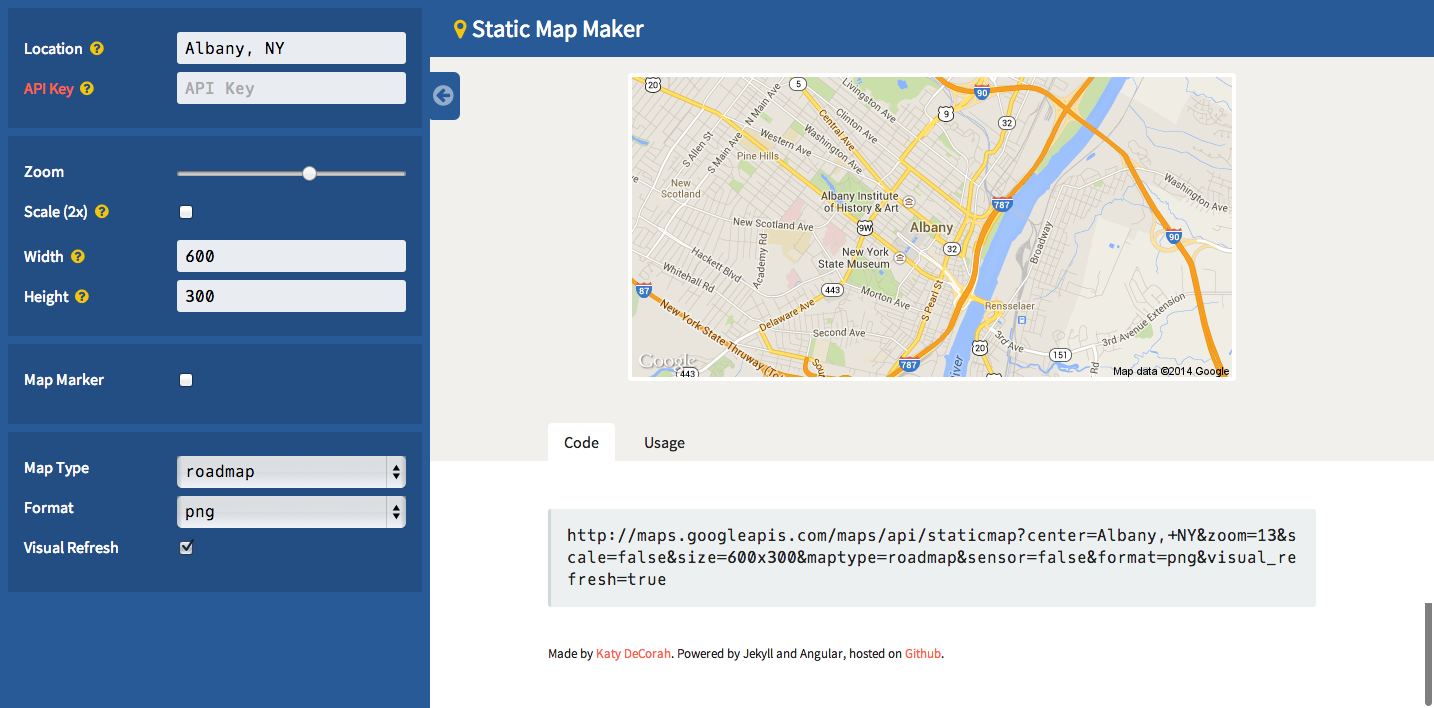
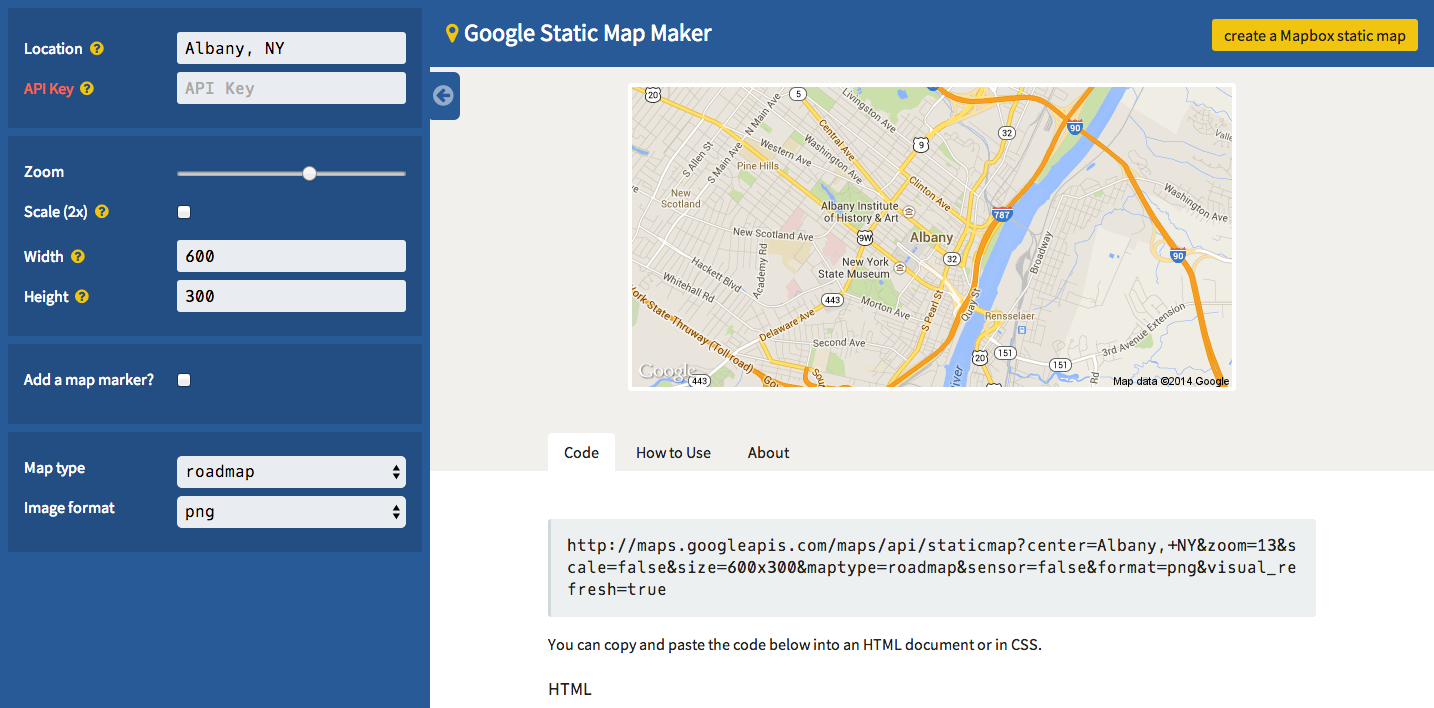
upgrade to mapbox v4

diff --git a/css/main.css b/css/main.css
@@ -1,4 +1,4 @@
-.clearfix,.main,.form-group{zoom:1}.clearfix:before,.main:before,.form-group:before,.clearfix:after,.main:after,.form-group:after{content:"\0020";display:block;height:0;overflow:hidden}.clearfix:after,.main:after,.form-group:after{clear:both}html,body,div,span,applet,object,iframe,h1,h2,h3,h4,h5,h6,p,blockquote,pre,a,abbr,acronym,address,big,cite,code,del,dfn,em,img,ins,kbd,q,s,samp,small,.colophon,strike,strong,sub,sup,tt,var,b,u,i,center,dl,dt,dd,ol,ul,li,fieldset,form,label,legend,table,caption,tbody,tfoot,thead,tr,th,td,article,aside,canvas,details,embed,figure,figcaption,footer,header,hgroup,menu,nav,output,ruby,section,summary,time,mark,audio,video{margin:0;padding:0;border:0;font-size:100%;font:inherit;vertical-align:baseline}article,aside,details,figcaption,figure,footer,header,hgroup,menu,nav,section{display:block}body{line-height:1}h1{font-size:1.5em;color:white;font-weight:normal}@media (min-width: 650px){h1{float:left}}h1 .fa-map-marker{color:#f1c40f;font-size:0.9em}h2{font-size:1.1em;font-weight:normal;margin:1em 0}p{margin:0 0 1.3em;max-width:35em}a{text-decoration:none;color:tomato}a:hover{color:#ff8e7a}code,pre{font-family:"Oxygen Mono","Courier New",monospace}pre{margin:1em 0;word-break:break-all;white-space:pre-wrap;padding:1em;background:#ecf0f1;border-left:3px solid #cfd9db;border-radius:0.2em;display:block}pre::-moz-selection{background:#f1c40f}pre::selection{background:#f1c40f}small,.colophon{font-size:0.8em}.colophon{margin-top:3em;margin-bottom:1em}.link{position:absolute;right:1em;top:1em;color:white;z-index:1}ol{margin-left:1.25em}*{-moz-box-sizing:border-box;box-sizing:border-box}@media (min-width: 650px){html,body{height:100%}}
+.clearfix,.main,.form-group{zoom:1}.clearfix:before,.main:before,.form-group:before,.clearfix:after,.main:after,.form-group:after{content:"\0020";display:block;height:0;overflow:hidden}.clearfix:after,.main:after,.form-group:after{clear:both}html,body,div,span,applet,object,iframe,h1,h2,h3,h4,h5,h6,p,blockquote,pre,a,abbr,acronym,address,big,cite,code,del,dfn,em,img,ins,kbd,q,s,samp,small,.colophon,strike,strong,sub,sup,tt,var,b,u,i,center,dl,dt,dd,ol,ul,li,fieldset,form,label,legend,table,caption,tbody,tfoot,thead,tr,th,td,article,aside,canvas,details,embed,figure,figcaption,footer,header,hgroup,menu,nav,output,ruby,section,summary,time,mark,audio,video{margin:0;padding:0;border:0;font-size:100%;font:inherit;vertical-align:baseline}article,aside,details,figcaption,figure,footer,header,hgroup,menu,nav,section{display:block}body{line-height:1}h2,h3,h4{margin:1.414em 0 0.5em;font-weight:inherit;line-height:1.2}h1{font-size:1.5em;color:white;font-weight:normal}@media (min-width: 650px){h1{float:left}}h1 .fa-map-marker{color:#f1c40f;font-size:0.9em}h2{font-size:1.424em}h3{font-size:1.266em}h4{font-size:1.125em}p{margin:0 0 1.3em;max-width:35em}a{text-decoration:none;color:tomato}a:hover{color:#ff8e7a}code,pre{font-family:"Oxygen Mono","Courier New",monospace}pre{margin:1em 0;word-break:break-all;white-space:pre-wrap;padding:1em;background:#ecf0f1;border-left:3px solid #cfd9db;border-radius:0.2em;display:block}pre::-moz-selection{background:#f1c40f}pre::selection{background:#f1c40f}small,.colophon{font-size:0.8em}.colophon{margin-top:3em;margin-bottom:1em}.link{position:absolute;right:1em;top:1em;color:white;z-index:1}ol{margin-left:1.25em}.alert{text-align:center;background:#c0392b;color:white;padding:1em;margin-bottom:1em}.alert a{color:white}*{-moz-box-sizing:border-box;box-sizing:border-box}@media (min-width: 650px){html,body{height:100%}}
 body{font-size:100%;line-height:1.4;font-weight:400;background:#fff;color:#222;font-family:"Source Sans Pro",sans-serif}.main{position:relative;min-height:100%}.col{position:relative}header{background:#285a98;padding:1em;z-index:100}.switch{color:#222;background-color:#f1c40f;padding:0.3em 0.75em;border-radius:0.2em;margin-top:0.2em;display:inline-block}.switch:hover{background-color:#f4d03f;color:inherit}@media (min-width: 650px){.switch{float:right}}@media (max-width: 650px){.switch{margin-top:1em}}
 .col-left{-webkit-transition:.2s;transition:.2s;background:#285a98}@media (min-width: 650px){.col-left{width:30%;position:absolute;top:0;bottom:0;left:0;height:auto}}
 @media (min-width: 650px){.col-right{width:70%;float:right;-webkit-transition:.2s;transition:.2s}}

diff --git a/_includes/tabs.html b/_includes/tabs.html
@@ -4,12 +4,14 @@
 <label for="code" class="tab-link">Code</label>
 <div id="tab-code" class="tab">
 <pre>{{ mapcode }}</pre>
-<p>You can copy and paste the code below into an HTML document or in CSS.</p>
+<p>Treat the code like an image. You can use HTML or CSS to display it.</p>
 <h2>HTML</h2>
-<pre>&lt;img src="{{ mapcode }}" alt="Google Map of [[base.location]]"&gt;</pre>
+<pre>&lt;img src="{{ mapcode }}" alt="{{page.title}} Map of [[base.location]]"&gt;</pre>
 {% if page.title == "Google" %}
-<h3>Image link to Google Maps</h3>
-<pre>&lt;a href="https://www.google.com/maps/place/[[ base.location.split(' ').join('+') ]]/"&gt;&lt;img src="{{ mapcode }}" alt="Google Map of [[base.location]]"&gt;&lt;/a&gt;</pre>
+<h3>Map with link to Google Maps</h3>
+<pre>&lt;a href="https://www.google.com/maps/place/[[ base.location.split(' ').join('+') ]]/"&gt;&lt;img src="{{ mapcode }}" alt="{{page.title}} Map of [[base.location]]"&gt;&lt;/a&gt;</pre>
+<h3>Map with link to Google Maps directions</h3>
+<pre>&lt;a href="https://www.google.com/maps/dir//[[ base.location.split(' ').join('+') ]]/"&gt;&lt;img src="{{ mapcode }}" alt="{{page.title}} Map of [[base.location]]"&gt;&lt;/a&gt;</pre>
 {% endif %}
 <h2>CSS</h2>
 <pre>background-image: url({{ mapcode }});</pre>
@@ -19,7 +21,7 @@
 <label for="usage" class="tab-link">How to Use</label>
 <div id="tab-usage" class="tab">
 <ol>
-{% if page.title == 'Mapbox' %}<li>You will need to create a <a href="https://www.mapbox.com/">Mapbox account</a> to generate a map ID. This will allow you to create a custom map without the the &ldquo;Example&rdquo; watermark.</li>{% endif %}
+{% if page.title == 'Mapbox' %}<li>You must create a <a href="https://www.mapbox.com/">Mapbox account</a> to generate a map ID and to get a public API token.</li>{% endif %}
 {% if page.title == 'Google' %}<li>If your site receives high traffic then you may need an <a href="https://console.developers.google.com/">API key</a> to create your map. <a href="https://developers.google.com/maps/documentation/staticmaps/?csw=1#Limits">Read more about Google&rsquo;s usage limits.</a></li>{% endif %}
 <li>Customize the fields to build your map.</li>
 <li>The &ldquo;Code&rdquo; tab contains the code for your map including examples.</li>

diff --git a/_includes/map.html b/_includes/map.html
@@ -2,6 +2,16 @@
 {% capture mapcode %}http://maps.googleapis.com/maps/api/staticmap?center=[[base.location.split(' ').join('+')]]&zoom=[[base.zoom]]&scale=[[scale]]&size=[[base.width]]x[[base.height]]&maptype=[[base.mapType]]&sensor=false[[ base.API !== '' && '&key='+base.API || '' ]]&format=[[base.format]]&visual_refresh=true[[ showMarker == 'true' && '&markers=size:'+base.markerSize+'%7Ccolor:'+base.markerColor+'%7C'+base.location.split(' ').join('+') || '' ]]{% endcapture %}
 <img ng-src="{{ mapcode }}" alt="Google Map of [[base.location]]" class="static-map" id="map">
 {% else %}
-{% capture mapcode %}http://api.tiles.mapbox.com/v3/[[ base.mapID ]][[ showMarker == 'true' && '/pin-' + base.markerSize + '-' + base.markerLabel + '+' + base.markerColor.split('#').join('') + '(' + base.location + ')' || '' ]]/[[ base.location ]],[[ base.zoom ]]/[[ base.width ]]x[[ base.height ]][[ base.format !== '@2x.png' && '.'+base.format || base.format ]]{% endcapture %}
+<ng-switch on="base.API">
+<ng-switch ng-switch-when="">
+<div class="alert"><a href="https://www.mapbox.com/account/apps/"><i class="fa fa-warning"></i> You must enter a public API token. Click here to retrieve your public API token.</a></div>
+</ng-switch>
+</ng-switch>
+<ng-switch on="base.mapID">
+<ng-switch ng-switch-when="">
+<div class="alert"><a href="https://www.mapbox.com/projects/"><i class="fa fa-warning"></i> You must enter a map ID. Click here to retrieve your map ID.</a></div>
+</ng-switch>
+</ng-switch>
+{% capture mapcode %}http://api.tiles.mapbox.com/v4/[[ base.mapID ]][[ showMarker == 'true' && '/pin-' + base.markerSize + '-' + base.markerLabel + '+' + base.markerColor.split('#').join('') + '(' + base.location + ')' || '' ]]/[[ base.location ]],[[ base.zoom ]]/[[ base.width ]]x[[ base.height ]][[ base.format !== '@2x.png' && '.'+base.format || base.format ]]?access_token=[[ base.API ]]{% endcapture %}
 <img ng-src="{{ mapcode }}" alt="Mapbox map of [[base.location]]" class="static-map" id="map">
 {% endif %}

diff --git a/_includes/controls.html b/_includes/controls.html
@@ -77,8 +77,14 @@ ng-options="format for format in formats" id="format">
 <div class="form-control"><input type="text" ng-model="base.location" id="location"></div>
 </div>
 <div class="form-group">
-<label for="api" class="cushion">Map ID <i class="fa fa-question-circle" data-toggle="popover" data-content="Create a Mapbox account to customize a map. Enter the map ID here. Use your own map to remove the 'Example' watermark."></i></label>
-<div class="form-control"><input type="text" ng-model="base.mapID" id="api" ng-init="base.mapID='examples.map-zr0njcqy'" placeholder="Map ID"></div>
+<label for="api" class="cushion"><a href="https://www.mapbox.com/projects/">Map ID</a> <i class="fa fa-question-circle" data-toggle="popover" data-content="Create a Mapbox account to customize a map. Enter the map ID here. Use your own map to remove the 'Example' watermark."></i></label>
+<div class="form-control"><input type="text" ng-model="base.mapID" id="api" ng-init="base.mapID=''" placeholder="Map ID"></div>
+</div>
+<div class="form-group">
+<label for="api" class="cushion">
+<a href="https://www.mapbox.com/account/apps/" target="_blank">Public API token</a>
+<i class="fa fa-question-circle" data-toggle="popover" data-content="You need a public API token to use static Mapbox API. Follow the link to access your public token from your Mapbox account."></i></label>
+<div class="form-control"><input type="text" ng-model="base.API" id="api" ng-init="base.API=''" placeholder="Public API Key"></div>
 </div>
 </fieldset>
 <fieldset>

diff --git a/css/lib/_type.scss b/css/lib/_type.scss
@@ -1,3 +1,10 @@
+h2, h3, h4 {
+  margin: 1.414em 0 0.5em;
+  font-weight: inherit;
+  line-height: 1.2;
+}
+
+
 h1 {
   font-size: 1.5em;
   color: white;
@@ -8,16 +15,18 @@ h1 {
     font-size: 0.9em;
   }
 }
-h2 {
-  font-size: 1.1em;
-  font-weight: normal;
-  margin: 1em 0;
-}
+
+h2 {font-size: 1.424em;}
+
+h3 {font-size: 1.266em;}
+
+h4 {font-size: 1.125em;}
 
 p {
   margin: 0 0 1.3em;
   max-width: 35em;
 }
+
 a {
   text-decoration: none;
   color: $link-color;
@@ -59,4 +68,13 @@ small { font-size: 0.8em; }
 
 ol {
   margin-left: 1.25em;
+}
+
+.alert {
+  text-align: center;
+  background: #c0392b;
+  color: white;
+  padding: 1em;
+  margin-bottom: 1em;
+  a { color: white}
 }

diff --git a/_includes/head.html b/_includes/head.html
@@ -10,7 +10,7 @@
 <meta name="twitter:description" content="{{ site.description }}">
 <meta name="twitter:creator" content="@katydecorah">
 <meta name="twitter:domain" content="{{ site.url }}">
-<link href="{{ site.url }}/css/main.css" rel="stylesheet">
+<link href="/css/main.css" rel="stylesheet">
 <link href='http://fonts.googleapis.com/css?family=Source+Sans+Pro|Oxygen+Mono' rel='stylesheet' type='text/css'>
 <link href="http://netdna.bootstrapcdn.com/font-awesome/4.0.3/css/font-awesome.min.css" rel="stylesheet">
 <!--[if IE 8]>

diff --git a/index.html b/index.html
@@ -1,5 +1,4 @@
 ---
 layout: default
 title: Google
-redirect_from: "http://katydecorah.com/staticmapmaker/"
 ---
